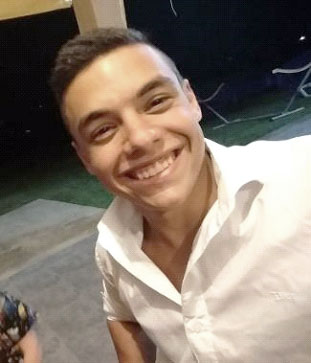
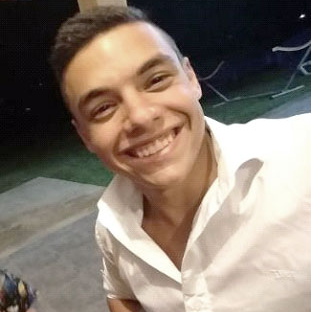
Primer commit

diff --git a/style.css b/style.css
@@ -1,6 +1,7 @@
 
 body {
-    background-color: grey;
+    background: rgb(57,57,57);
+    background: linear-gradient(90deg, rgba(57,57,57,1) 0%, rgba(150,150,150,1) 100%);
     font-family: 'Edu SA Beginner', cursive;
     margin: 100px;
     color: rgb(31, 31, 31);
@@ -12,9 +13,11 @@ body {
 }
 
 .fotito {
+    width: 200px;
+    height: 200px;
     text-align: center;
-    border-radius: 70%;
-    border: rgb(104, 104, 104) solid 3px;
+    border-radius: 80%;
+    border: rgb(104, 104, 104) solid 1px;
     box-shadow: 0 0 19px black;
 }
 
@@ -22,6 +25,15 @@ header {
     text-align: center;
     font-size: xx-large;
     font-family: 'Roboto Condensed', sans-serif;
+}
+
+header h2 {
+    font-size: x-large;
+    margin-bottom: 20mm;
+}
+
+header h1 {
+    margin: 2mm;
 }
 
 p {

diff --git a/index.html b/index.html
@@ -16,6 +16,7 @@
 
         <header>
             <h1>DESIDERATO FRANCO</h1>
+            <h2>Software Developer</h2>
         </header>
 
         <main>
